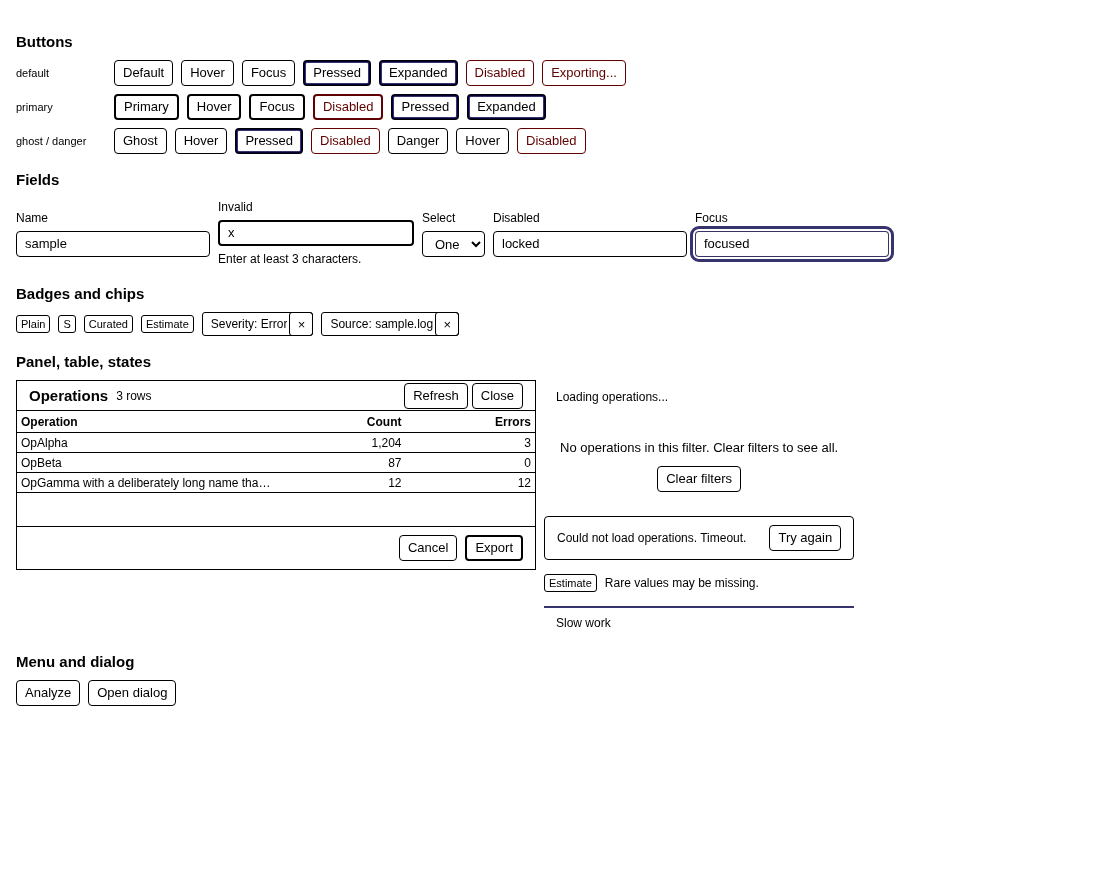
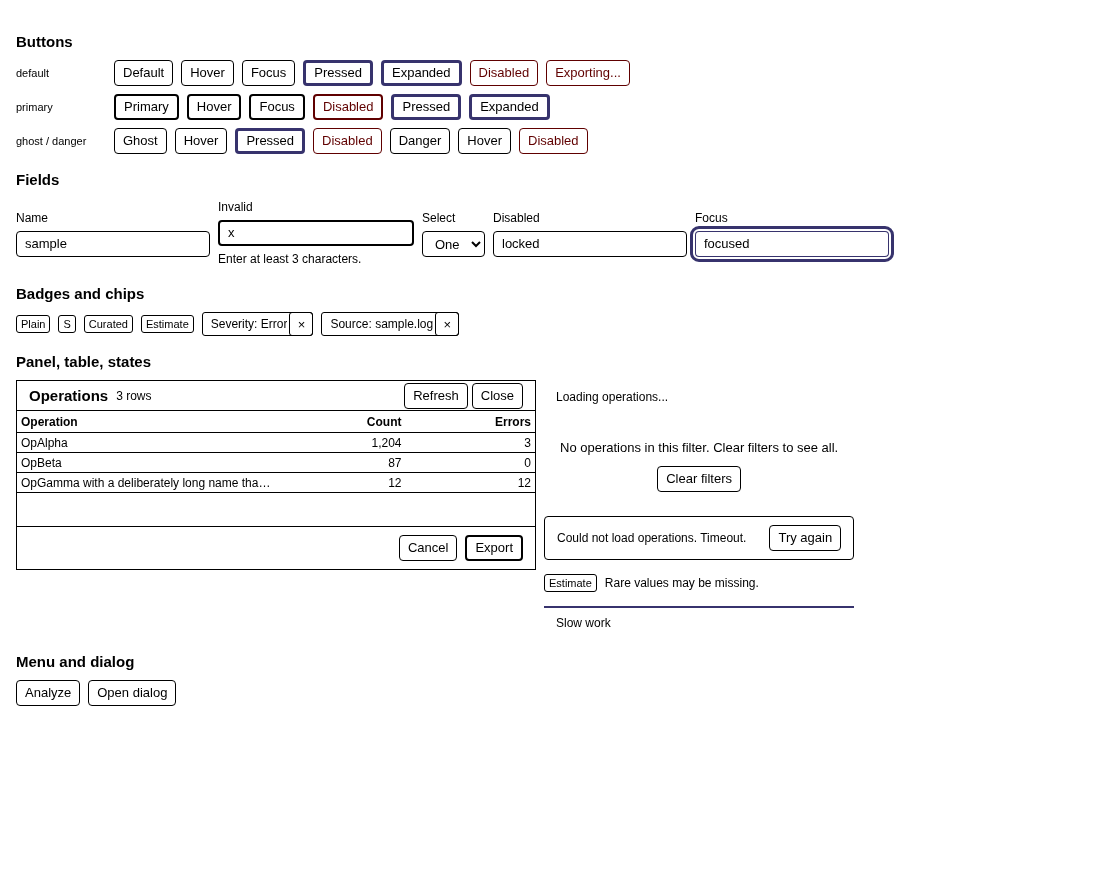
UI-10: forced-colors state border and focus ring, menu ring contrast, full named-color guard and pseudo-element audit

Changed region(s): [[0.2164, 0.0614, 0.5564, 0.1841]]

diff --git a/src/dmslog/web/css/components.css b/src/dmslog/web/css/components.css
@@ -617,13 +617,17 @@ button.ui-chip:hover,
     border-color: ButtonText;
   }
 
-  /* Pressed/expanded: inner 2 px outline. Focus: a thicker 3 px ring drawn outside (offset 2), so a focused
-     pressed button shows both indicators and focus is never mistaken for the state. */
-  .ui-button:is([aria-pressed="true"], [aria-expanded="true"]),
-  .ui-chip[aria-pressed="true"] {
+  /* Pressed/expanded: a thick Highlight border (the state). Focus: a separate 3 px Highlight ring outside
+     (offset 2). A focused pressed button shows both, because the state is a border and focus is an outline.
+     The selectors repeat the normal pressed block (same specificity, later in the file) so the system
+     border color also wins over the hover and variant rules, which have higher specificity than a bare
+     attribute selector. */
+  .ui-button:is([aria-pressed="true"], [aria-expanded="true"]):not(:disabled, [aria-disabled="true"]),
+  .ui-button:is([aria-pressed="true"], [aria-expanded="true"]):not(:disabled, [aria-disabled="true"]):hover,
+  .ui-chip[aria-pressed="true"],
+  .ui-chip[aria-pressed="true"]:hover {
     border-color: Highlight;
-    outline: 2px solid Highlight;
-    outline-offset: -3px;
+    border-width: 3px;
   }
 
   .ui-button.is-primary {
@@ -645,13 +649,14 @@ button.ui-chip:hover,
   .ui-input:focus-visible,
   .ui-select:focus-visible,
   .ui-chip-remove:focus-visible,
-  .ui-menu-item:focus-visible,
   .ui-button:is([aria-pressed="true"], [aria-expanded="true"]):focus-visible {
     outline: 3px solid Highlight;
     outline-offset: 2px;
   }
 
+  /* The focused item is filled with Highlight, so its inner ring must use HighlightText to be visible. */
   .ui-menu-item:focus-visible {
+    outline: 2px solid HighlightText;
     outline-offset: -3px;
   }
 
